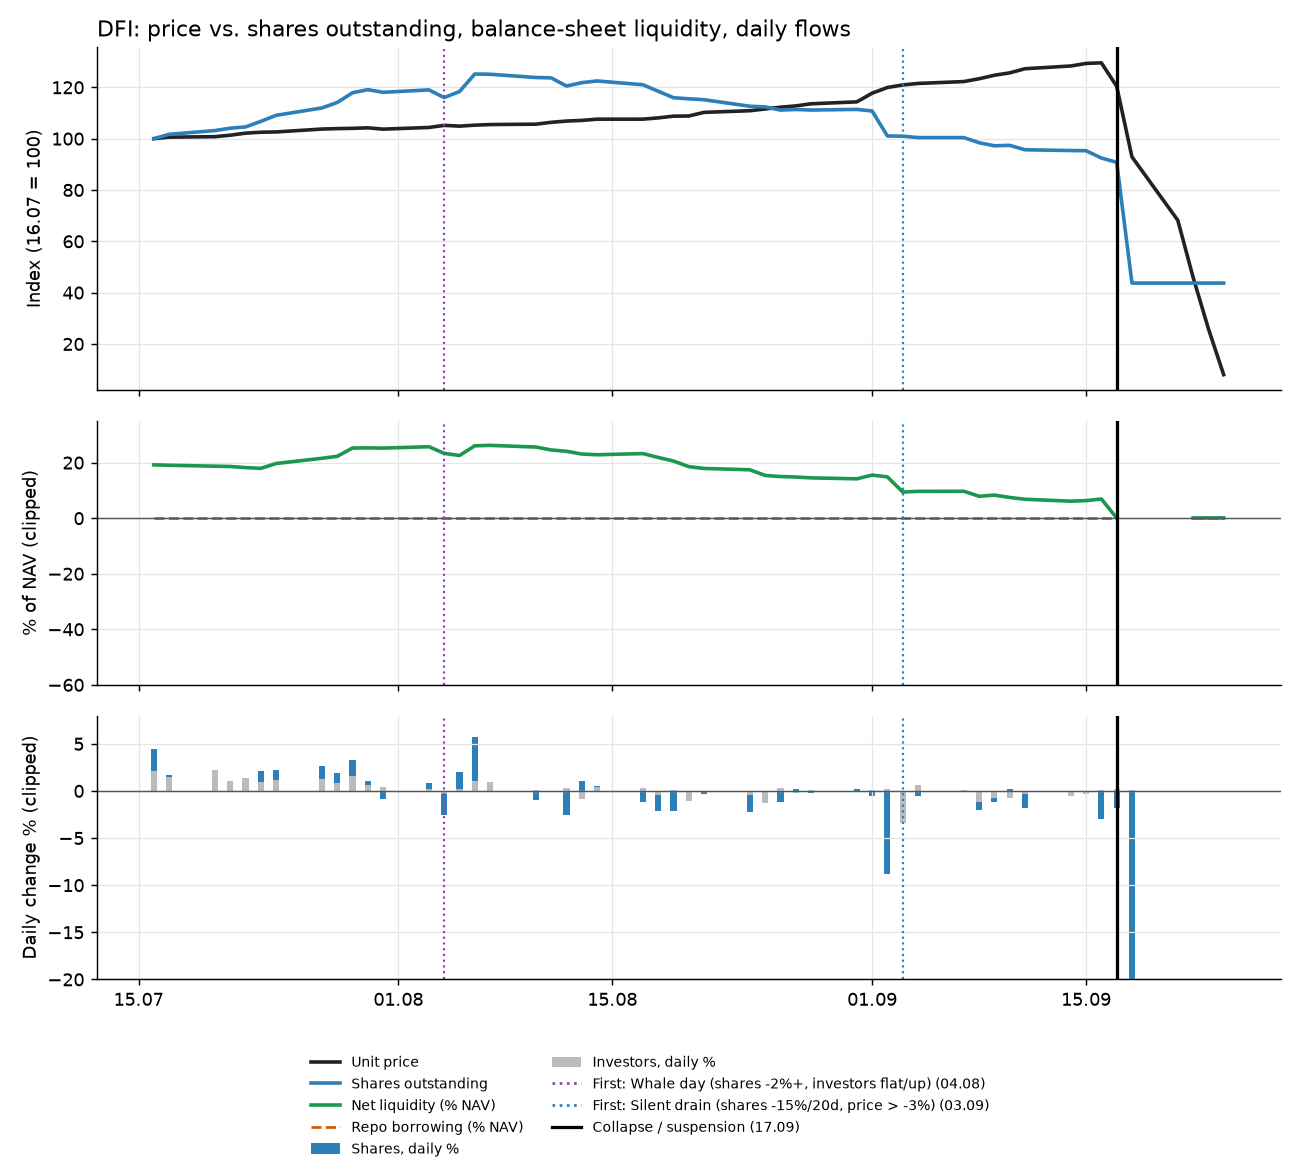
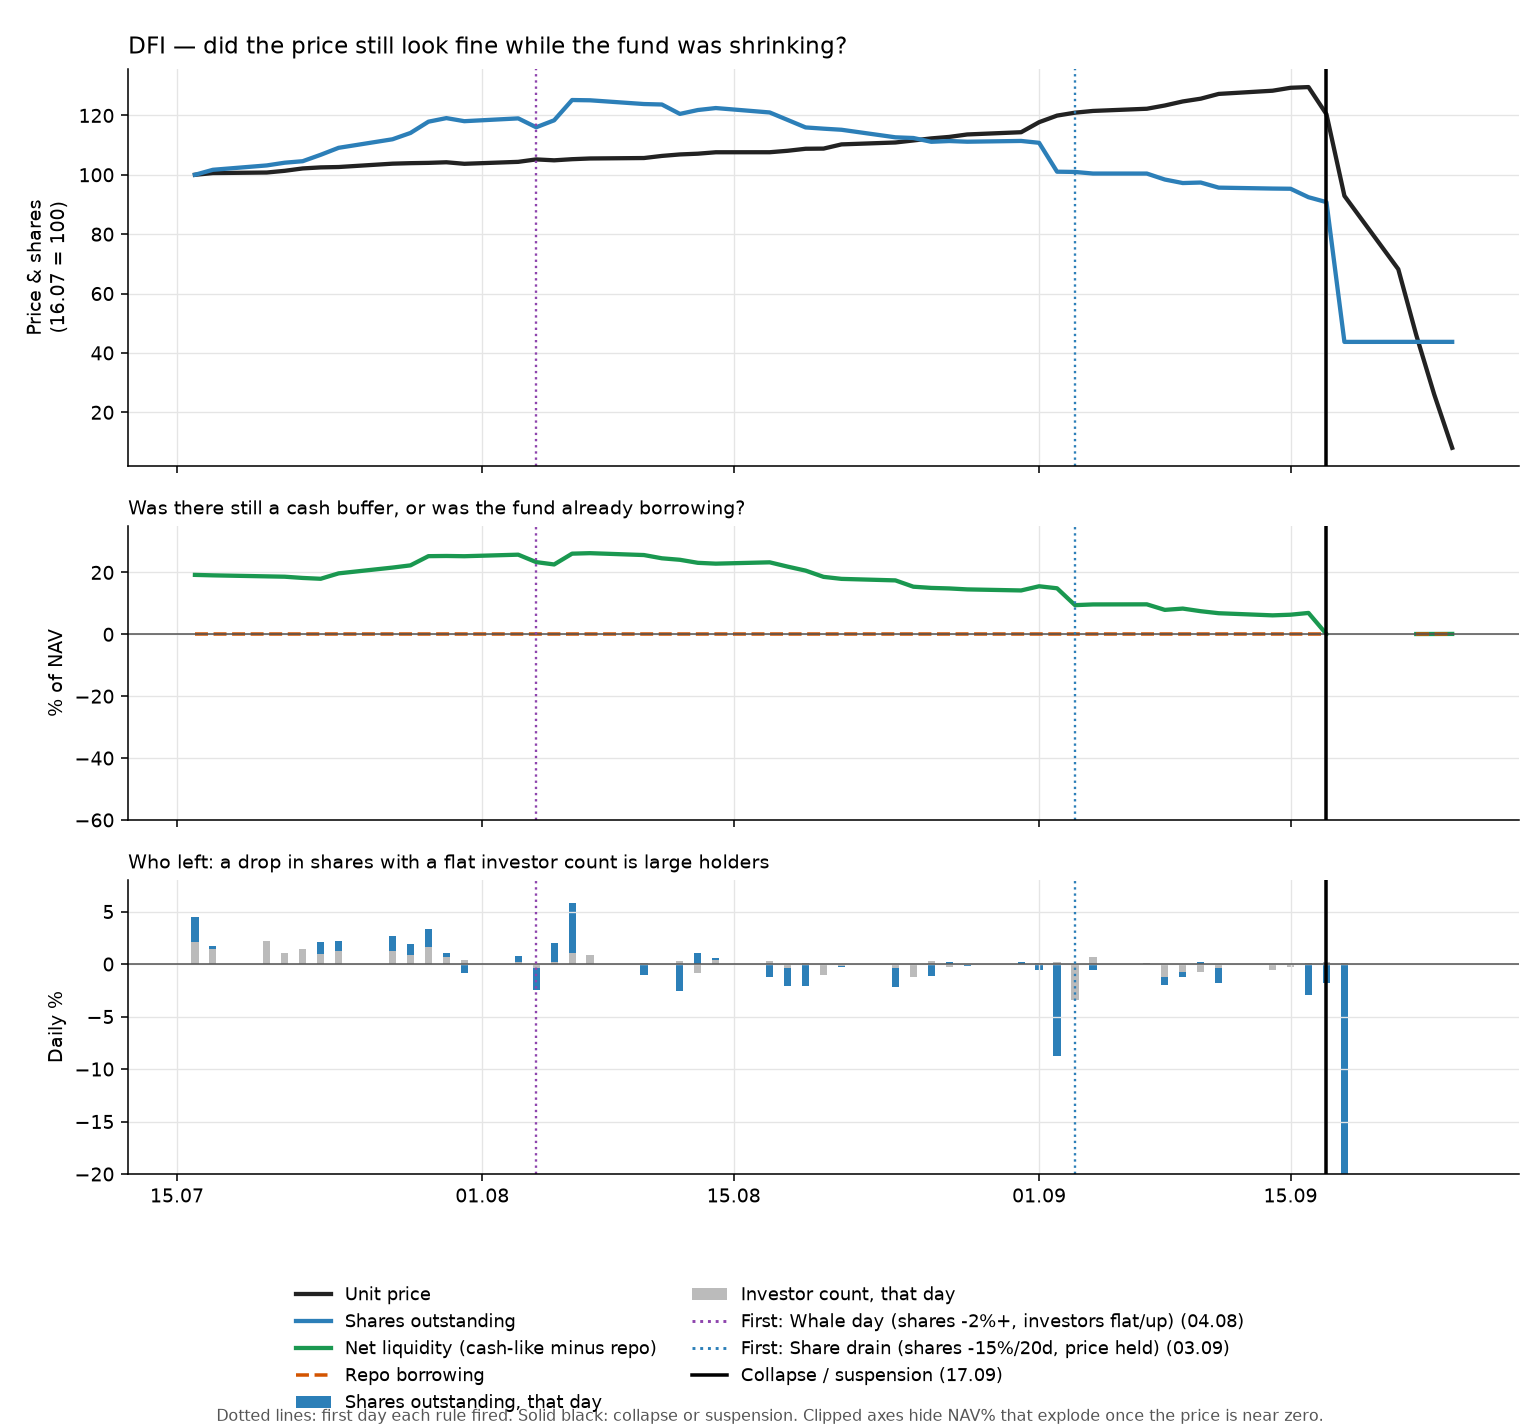
docs: map the repo and freeze KAP weights at 16.09

diff --git a/fon_terminal/kap_pdf_downloader/kap_delta_engine.py b/fon_terminal/kap_pdf_downloader/kap_delta_engine.py
@@ -1499,12 +1499,21 @@ def build_tefas_power_matrix(
 # --- Step 6: live BIST prices + target fund AUM, for a "% of portfolio" weight -----
 
 
-def fetch_bist_prices(tickers: List[str]) -> Dict[str, Optional[float]]:
-    """Fetches the latest available closing price (TL) for a batch of
-    BIST-listed tickers via `yfinance`, for the portfolio evolution
-    table's "Güncel Ağırlık (%)" column: `Hisse Pozisyon Büyüklüğü =
-    Güncel Tahmini Lot * Güncel Fiyat`, then that position size as a
-    percentage of the target fund's total AUM (see `get_latest_aum_for_fund`).
+def fetch_bist_prices(
+    tickers: List[str],
+    as_of: Optional[date] = None,
+) -> Dict[str, Optional[float]]:
+    """Fetches closing prices (TL) for a batch of BIST-listed tickers via
+    `yfinance`, for the portfolio evolution table's "Güncel Ağırlık (%)"
+    column: `Hisse Pozisyon Büyüklüğü = Güncel Tahmini Lot * Güncel Fiyat`,
+    then that position size as a percentage of the target fund's total AUM
+    (see `get_latest_aum_for_fund`).
+
+    If `as_of` is set, the close is the last session on or before that
+    date — not whatever Yahoo is printing today. After 16.09.2026 these
+    funds stopped publishing a real NAV; live TEFAS/BIST prints are not
+    the last operating book. The TLY `__main__` pipeline passes that
+    cutoff. `as_of=None` keeps the old "latest 5d bar" behaviour.
 
     Yahoo Finance requires a ".IS" suffix for Istanbul-listed symbols
     (e.g. "PEKGY" -> "PEKGY.IS") -- added here, transparently, so callers
@@ -1543,16 +1552,26 @@ def fetch_bist_prices(tickers: List[str]) -> Dict[str, Optional[float]]:
     symbol_map = {f"{ticker}.IS": ticker for ticker in tickers}
     symbols = list(symbol_map.keys())
 
-    print(f"[SISTEM] {len(symbols)} BIST hissesi icin guncel fiyat cekiliyor (yfinance, tek toplu istek)...")
+    window = (
+        f"as_of={as_of.isoformat()} (son seans o gun veya once)"
+        if as_of is not None
+        else "period=5d (en son bar)"
+    )
+    print(f"[SISTEM] {len(symbols)} BIST hissesi icin fiyat cekiliyor (yfinance, tek toplu istek, {window})...")
     try:
-        data = yf.download(
-            tickers=symbols,
-            period="5d",
-            group_by="ticker",
-            threads=True,
-            progress=False,
-            auto_adjust=False,
-        )
+        download_kwargs: Dict[str, object] = {
+            "tickers": symbols,
+            "group_by": "ticker",
+            "threads": True,
+            "progress": False,
+            "auto_adjust": False,
+        }
+        if as_of is not None:
+            download_kwargs["start"] = (as_of - timedelta(days=12)).isoformat()
+            download_kwargs["end"] = (as_of + timedelta(days=1)).isoformat()
+        else:
+            download_kwargs["period"] = "5d"
+        data = yf.download(**download_kwargs)
     except Exception as exc:  # noqa: BLE001 - a total yfinance/network failure must never crash the caller
         print(f"[UYARI] BIST fiyatlari cekilirken beklenmeyen hata (yfinance): {exc}")
         return prices
@@ -1574,7 +1593,7 @@ def fetch_bist_prices(tickers: List[str]) -> Dict[str, Optional[float]]:
             close_series = close_series.dropna()
             if close_series.empty:
                 continue
-            prices[ticker] = float(close_series.iloc[-1])
+            prices[ticker] = _close_on_or_before(close_series, as_of)
         except (KeyError, IndexError, TypeError, ValueError):
             continue
 
@@ -1589,13 +1608,40 @@ def fetch_bist_prices(tickers: List[str]) -> Dict[str, Optional[float]]:
     return prices
 
 
-def get_latest_aum_for_fund(fon_kodu: str) -> Optional[Tuple[str, float]]:
+def _close_on_or_before(close_series, as_of: Optional[date]) -> Optional[float]:
+    """Last non-null close in `close_series`, or the last one whose session
+    date is on or before `as_of` when that cutoff is set."""
+    if as_of is None:
+        return float(close_series.iloc[-1])
+    chosen: Optional[float] = None
+    for idx, value in close_series.items():
+        try:
+            idx_dt = idx.to_pydatetime() if hasattr(idx, "to_pydatetime") else idx
+            if getattr(idx_dt, "tzinfo", None) is not None:
+                idx_dt = idx_dt.replace(tzinfo=None)
+            idx_day = idx_dt.date() if hasattr(idx_dt, "date") else idx_dt
+        except (AttributeError, TypeError, ValueError):
+            continue
+        if idx_day <= as_of:
+            chosen = float(value)
+    return chosen
+
+
+def get_latest_aum_for_fund(
+    fon_kodu: str,
+    as_of: Optional[date] = None,
+) -> Optional[Tuple[str, float]]:
     """Returns `(iso_date, ToplamDeger)` for `fon_kodu`'s most recent
     TEFAS record in this sandbox's local cache (`tefas_cache.json`) --
     the RAW total AUM figure, deliberately NOT the "Aktif Guc"
     (equity+liquidity) figure `build_tefas_power_matrix` computes, since
     the evolution table's "% of portfolio" weight needs the fund's TRUE
     total size as its denominator, not a purchasing-power subset of it.
+
+    Rows with `Fiyat <= 0` are skipped (a suspended fund prints 0, which
+    is not an AUM). If `as_of` is set, later cache rows are ignored too —
+    same cutoff as `fetch_bist_prices`, so weights stay on the last
+    operating session.
 
     Must be called AFTER `build_tefas_power_matrix` has run at least once
     for this fund in the current process -- that call is what populates
@@ -1627,11 +1673,21 @@ def get_latest_aum_for_fund(fon_kodu: str) -> Optional[Tuple[str, float]]:
 
     latest_iso: Optional[str] = None
     latest_aum: Optional[float] = None
+    as_of_iso = as_of.isoformat() if as_of is not None else None
     for record in records:
         iso_date = _tarih_ddmmyyyy_to_iso(record.get("Tarih"))
         raw_aum = record.get("ToplamDeger")
         if iso_date is None or raw_aum is None:
             continue
+        if as_of_iso is not None and iso_date > as_of_iso:
+            continue
+        raw_price = record.get("Fiyat")
+        if raw_price is not None:
+            try:
+                if float(raw_price) <= 0:
+                    continue
+            except (TypeError, ValueError):
+                continue
         if latest_iso is not None and iso_date <= latest_iso:
             continue
         try:
@@ -1862,22 +1918,28 @@ if __name__ == "__main__":
         print(f"{code:8s}  Onceki: {before:>15,.2f}   Delta: {delta:>+15,.2f}   Sonraki: {after:>15,.2f}")
 
     print("\n=== Adım 6: Güncel BIST Fiyatları ve Portföy Ağırlığı (%) ===")
+    # Last session these funds still published a real NAV. After 16.09
+    # TEFAS prints 0 and many names are halted; live Yahoo closes are not
+    # the last operating book.
+    LAST_OPERATING_SESSION = date(2026, 9, 16)
     yf_symbols = [f"{code}.IS" for code in all_codes]
     _log_step(
         execution_logs,
-        f"yfinance toplu fiyat isteği: tickers={yf_symbols}, period='5d', "
+        f"yfinance toplu fiyat isteği: tickers={yf_symbols}, "
+        f"as_of={LAST_OPERATING_SESSION.isoformat()} (son seans, period=5d değil), "
         f"group_by='ticker', ham_kod_sayısı={len(all_codes)}.",
     )
-    current_prices = fetch_bist_prices(all_codes)
+    current_prices = fetch_bist_prices(all_codes, as_of=LAST_OPERATING_SESSION)
     found_price_count = sum(1 for price in current_prices.values() if price is not None)
     missing_price_codes = [code for code, price in current_prices.items() if price is None]
     _log_step(
         execution_logs,
         f"yfinance yanıtı: fiyat_bulunan={found_price_count}/{len(all_codes)}, "
-        f"fiyat_yok={missing_price_codes or '[]'}.",
+        f"fiyat_yok={missing_price_codes or '[]'}, "
+        f"kesim={LAST_OPERATING_SESSION.isoformat()}.",
     )
 
-    aum_info = get_latest_aum_for_fund(FON_KODU)
+    aum_info = get_latest_aum_for_fund(FON_KODU, as_of=LAST_OPERATING_SESSION)
     if aum_info is None:
         print(f"[UYARI] {FON_KODU} icin tefas_cache.json'da guncel ToplamDeger (AUM) bulunamadi; agirlik (%) hesabi atlanacak.")
         _log_step(

diff --git a/fon_terminal/case_study/build_case_study.py b/fon_terminal/case_study/build_case_study.py
@@ -58,7 +58,7 @@ COLLAPSE_DAILY_DROP_PCT = -5.0
 SIGNALS = {
     "whale": "Whale day (shares -2%+, investors flat/up)",
     "borrow": "Repo borrowing <= -5% of NAV",
-    "drain": "Silent drain (shares -15%/20d, price > -3%)",
+    "drain": "Share drain (shares -15%/20d, price held)",
     "net_liquidity": "Net liquidity < 0",
 }
 SIGNAL_COLORS = {"whale": "#8e44ad", "borrow": "#d35400", "drain": "#2c7fb8", "net_liquidity": "#c0392b"}
@@ -166,14 +166,17 @@ def style_axis(ax):
 def fund_panel(fund, rows, summary, output_path, trades=None):
     rows = [r for r in rows if r["date"] >= CHART_START]
     dates = [r["date"] for r in rows]
-    fig, axes = plt.subplots(3, 1, figsize=(10, 9), sharex=True,
-                             gridspec_kw={"height_ratios": [1.3, 1, 1]})
+    fig, axes = plt.subplots(3, 1, figsize=(11, 10.2), sharex=True,
+                             gridspec_kw={"height_ratios": [1.35, 1, 1]})
 
     ax = axes[0]
-    ax.plot(dates, index_series(rows, "price"), color="#222222", linewidth=2, label="Unit price")
-    ax.plot(dates, index_series(rows, "shares"), color="#2c7fb8", linewidth=2, label="Shares outstanding")
-    ax.set_ylabel(f"Index ({INDEX_BASE_DATE:%d.%m} = 100)")
-    ax.set_title(f"{fund}: price vs. shares outstanding, balance-sheet liquidity, daily flows", loc="left")
+    ax.plot(dates, index_series(rows, "price"), color="#222222", linewidth=2.2, label="Unit price")
+    ax.plot(dates, index_series(rows, "shares"), color="#2c7fb8", linewidth=2.2, label="Shares outstanding")
+    ax.set_ylabel(f"Price & shares\n({INDEX_BASE_DATE:%d.%m} = 100)")
+    ax.set_title(
+        f"{fund} — did the price still look fine while the fund was shrinking?",
+        loc="left", fontsize=12, pad=8,
+    )
 
     if trades:
         price_index = dict(zip(dates, index_series(rows, "price")))
@@ -196,21 +199,23 @@ def fund_panel(fund, rows, summary, output_path, trades=None):
 
     liquidity = [sane(r["net_liquidity"]) for r in rows]
     repo = [sane(r["repo"]) for r in rows]
-    ax.plot(dates, liquidity, color="#1a9850", linewidth=2, label="Net liquidity (% NAV)")
-    ax.plot(dates, repo, color="#d35400", linewidth=1.5, linestyle="--", label="Repo borrowing (% NAV)")
+    ax.plot(dates, liquidity, color="#1a9850", linewidth=2.2, label="Net liquidity (cash-like minus repo)")
+    ax.plot(dates, repo, color="#d35400", linewidth=1.8, linestyle="--", label="Repo borrowing")
     ax.axhline(0, color="#555555", linewidth=0.8)
     ax.set_ylim(-60, 35)
-    ax.set_ylabel("% of NAV (clipped)")
+    ax.set_ylabel("% of NAV")
+    ax.set_title("Was there still a cash buffer, or was the fund already borrowing?", loc="left", fontsize=10)
 
     ax = axes[2]
     width = 0.4
     ax.bar([d - timedelta(hours=5) for d in dates], [max(r["share_chg"], -20) for r in rows], width=width,
-           color="#2c7fb8", label="Shares, daily %")
+           color="#2c7fb8", label="Shares outstanding, that day")
     ax.bar([d + timedelta(hours=5) for d in dates], [max(r["investor_chg"], -20) for r in rows], width=width,
-           color="#bbbbbb", label="Investors, daily %")
+           color="#bbbbbb", label="Investor count, that day")
     ax.axhline(0, color="#555555", linewidth=0.8)
     ax.set_ylim(-20, 8)
-    ax.set_ylabel("Daily change % (clipped)")
+    ax.set_ylabel("Daily %")
+    ax.set_title("Who left: a drop in shares with a flat investor count is large holders", loc="left", fontsize=10)
 
     for ax in axes:
         style_axis(ax)
@@ -232,9 +237,15 @@ def fund_panel(fund, rows, summary, output_path, trades=None):
     if summary["collapse"]:
         handles.append(plt.Line2D([], [], color="black", linewidth=1.8))
         labels.append(f"Collapse / suspension ({summary['collapse']:%d.%m})")
-    fig.legend(handles, labels, loc="lower center", ncol=2, fontsize=8, frameon=False)
-    fig.tight_layout(rect=(0, 0.12, 1, 1))
-    fig.savefig(output_path, dpi=130)
+    fig.legend(handles, labels, loc="lower center", ncol=2, fontsize=9, frameon=False)
+    fig.text(
+        0.5, 0.005,
+        "Dotted lines: first day each rule fired. Solid black: collapse or suspension. "
+        "Clipped axes hide NAV% that explode once the price is near zero.",
+        ha="center", fontsize=8, color="#555555",
+    )
+    fig.tight_layout(rect=(0, 0.14, 1, 0.99))
+    fig.savefig(output_path, dpi=140)
     plt.close(fig)
 
 
@@ -307,14 +318,15 @@ def concentration_chart(snapshots, output_path):
     ax.set_xticks([x + width * (len(labels) - 1) / 2 for x in range(len(order))])
     ax.set_xticklabels(order)
     ax.set_ylabel("% of fund NAV")
-    ax.set_title("TLY: largest single-stock positions (KAP portfolio reports)", loc="left")
+    ax.set_title("TLY — how much sat in the largest names (from KAP reports, not TEFAS)", loc="left", fontsize=12)
+    ax.set_xlabel("Ticker")
     style = ax.spines
     style["top"].set_visible(False)
     style["right"].set_visible(False)
     ax.grid(True, axis="y", color="#e5e5e5")
     ax.legend(frameon=False)
     fig.tight_layout()
-    fig.savefig(output_path, dpi=130)
+    fig.savefig(output_path, dpi=140)
     plt.close(fig)
 
 

diff --git a/fon_terminal/case_study/CASE_STUDY_2026_09.md b/fon_terminal/case_study/CASE_STUDY_2026_09.md
@@ -45,6 +45,20 @@ said nothing until it was too late.
 | **Allocation charts** (repo, reverse repo, money market, deposits) | *Is there a buffer?* How much of the fund can be turned into cash immediately, and is the fund already borrowing? |
 | **KAP pipeline** (`kap_pdf_downloader/`) | *What does the fund actually hold?* Stock-level holdings from the fund's own KAP portfolio reports; single-stock concentration; which funds share a manager (`discover_related_funds`). |
 
+The terminal on 16.09, last published TEFAS row before the halt — price and AUM still look fine; shares and reverse-repo are already falling:
+
+![TLY terminal 16.09.2026](img/tly_terminal_2026_09_16.png)
+
+*Same dashboard as the terminal README. 17.09 (zero price / suspension, alerts) is in section 7.*
+
+The KAP HTML report, frozen at the last operating session. After 16.09, TEFAS prints 0 and BIST names are not a usable "current weight". These shots are from an earlier run (AUM header 26.08); they show the product, not a live post-liquidation refresh.
+
+![KAP execution trace](img/kap_report_overview.png)
+
+![KAP holdings](img/kap_report_holdings.png)
+
+![KAP portfolio evolution](img/kap_report_evolution.png)
+
 The two halves were developed separately on purpose: the terminal was the
 working system, the KAP pipeline was under active development, and the plan
 was to merge them once the KAP side was stable, then add an alerting layer on
@@ -71,7 +85,7 @@ every tracked fund:
 | Signal | Rule | What it means |
 |---|---|---|
 | Whale day | Shares outstanding -2% or more in a day while investor count is flat or rising (>= -0.5%) | Large holders leaving while small ones stay or arrive |
-| Silent drain | Shares -15% or more over 20 business days while price is down less than 3% | Money leaving a fund whose price still looks healthy |
+| Share drain | Shares -15% or more over 20 business days while price is down less than 3% | Money leaving a fund whose price still looks healthy |
 | Repo borrowing | Repo at or below -5% of NAV | The fund is borrowing, typically to meet redemptions |
 | Net liquidity < 0 | Repo + reverse repo + money market + deposits below zero | Cash-like assets no longer cover what the fund owes short term |
 
@@ -84,6 +98,8 @@ they **were** written after the event; see the limitations in section 6.
 ### 4.1 PHE and PBR: the fund was emptying while the price stood still
 
 ![PHE panel](img/phe_panel.png)
+
+*Three stacked views, 16.07–collapse. Top: unit price vs shares outstanding (both indexed to 16.07 = 100). Middle: cash-like assets minus repo borrowing. Bottom: that day's change in shares (blue) vs investor count (grey). Dotted lines are the first fire of each rule; solid black is the break.*
 
 | 16.07 to 01.09 (last day before the price broke) | PHE | PBR |
 |---|---|---|
@@ -103,9 +119,13 @@ they **were** written after the event; see the limitations in section 6.
 
 ![PBR panel](img/pbr_panel.png)
 
+*Same layout as PHE. Shares and liquidity moved for weeks; the unit price was the last series to break.*
+
 ### 4.2 TLY: a rising price over a thinning cushion
 
 ![TLY panel](img/tly_panel.png)
+
+*Same three views. Price rises while shares fall and net liquidity crosses below zero on 08.09. The black line is 16.09 / suspension.*
 
 | 16.07 to 16.09 | TLY |
 |---|---|
@@ -129,6 +149,8 @@ they **were** written after the event; see the limitations in section 6.
 **Concentration (from the KAP reports):**
 
 ![TLY concentration](img/tly_concentration.png)
+
+*Each group is one KAP snapshot. Bars are that stock's weight in TLY's NAV. The last group is an estimate: 04.09 lots marked at 15.09 closes.*
 
 | Snapshot | Top holding | Top 3 | Top 5 |
 |---|---|---|---|
@@ -173,7 +195,7 @@ disclosures don't provide.
 First day each rule fired (visible date) and business days before the
 collapse (first daily price drop of 5% or more, or suspension):
 
-| Fund | Whale day | Silent drain | Repo borrowing | Net liquidity < 0 | Collapse |
+| Fund | Whale day | Share drain | Repo borrowing | Net liquidity < 0 | Collapse |
 |---|---|---|---|---|---|
 | PHE | 23.07 (29) | 03.08 (22) | 05.08 (20) | 05.08 (20) | 02.09 |
 | PBR | 29.07 (25) | 03.08 (22) | 05.08 (20) | 05.08 (20) | 02.09 |
@@ -248,7 +270,8 @@ The alerting layer this case study argues for is small:
 
 Items 1, 2 and 4 are now on the terminal (written after this event, same
 thresholds as section 3). TLY through 17.09.2026, the first published zero
-price / suspension row, with fire dates and crossing values:
+price / suspension row, with fire dates and crossing values. 16.09 (last
+published NAV, no alerts overlay) is in section 2.
 
 ![TLY terminal 17.09.2026](img/tly_terminal_2026_09_17.png)
 

diff --git a/fon_terminal/kap_pdf_downloader/README.md b/fon_terminal/kap_pdf_downloader/README.md
@@ -11,6 +11,13 @@ What those reports showed before September 2026 is in the
 
 ![Execution trace](img/report_overview.png)
 
+*Frozen product shot — last operating session is 16.09.2026. After that
+TEFAS prints 0 and BIST names are halted or limit-down; do not refresh
+these "current weight" columns from live Yahoo/TEFAS. The pipeline now
+caps BIST closes and TEFAS AUM at that date. The screenshots themselves
+are from an earlier HTML run (AUM header 26.08); they show the report
+layout, not a live post-liquidation book.*
+
 The HTML report opens with an execution trace: which KAP endpoints were
 called, which filings were kept or dropped, and how multi-fund trades
 were classified. Holdings parsed from a PDF:
@@ -18,7 +25,7 @@ were classified. Holdings parsed from a PDF:
 ![Holdings table](img/report_holdings.png)
 
 And the estimated holdings since that baseline — weights, lot changes, BIST
-prices:
+prices as of 16.09.2026:
 
 ![Portfolio evolution](img/report_evolution.png)
 
@@ -437,8 +444,8 @@ per ticker:
 | İşlem Tarihçesi | Click-to-expand `<details>` list of every INDIVIDUAL dated entry behind the two delta columns above (see below). |
 | Güncel Tahmini Lot | Başlangıç + Kesinleşen + Oransal. |
 | Taban Tarihinden Beri Lot Değişimi (%) | `(Güncel - Başlangıç) / Başlangıç * 100`, matte emerald if positive, matte brick-red if negative. A ticker with Başlangıç Lot == 0 (division by zero is meaningless, not just an edge case) renders `"YENİ HİSSE"` here instead, unless it also nets out to exactly 0 (rendered as a plain `-`). **This covers only the span since the baseline PDF's measured valuation date** -- it resets when the next KAP PDF becomes the new baseline; it is not a long-term trend. |
-| Güncel Fiyat | Latest BIST close from yfinance (`TICKER.IS`), or `-` if unavailable. |
-| Güncel Ağırlık (%) | `(Güncel Tahmini Lot × Güncel Fiyat) / fon AUM * 100` when both price and AUM exist; otherwise `-`. |
+| Güncel Fiyat | BIST close from yfinance (`TICKER.IS`) on the last operating session (16.09.2026), or `-` if unavailable. Not today's print. |
+| Güncel Ağırlık (%) | `(Güncel Tahmini Lot × Güncel Fiyat) / fon AUM * 100` when both price and AUM exist; otherwise `-`. AUM is the last TEFAS row on or before that same date with a positive unit price. |
 
 When AUM/prices are available, rows are sorted by **Güncel Ağırlık (%)**
 descending (largest portfolio weight first); tickers without a computable

diff --git a/README.md b/README.md
@@ -1,0 +1,11 @@
+# r-d
+
+Working software and notes around Turkish investment funds. Almost everything lives in [`fon_terminal/`](fon_terminal/) — start there, not at this folder listing.
+
+| | |
+|---|---|
+| [**Terminal**](fon_terminal/README.md) | Daily TEFAS series: whale radar, cash buffer, alerts. Screenshot is TLY on **16.09.2026**, the last published row before the halt. |
+| [**KAP pipeline**](fon_terminal/kap_pdf_downloader/README.md) | Holdings, subsequent trades, concentration. Market weights freeze at **16.09.2026** — later TEFAS/BIST prints are not the last operating book. |
+| [**Case study**](fon_terminal/case_study/CASE_STUDY_2026_09.md) | What those series showed before the September 2026 run. |
+
+The tag [`pre-crisis-2026-09-14`](https://github.com/Raknero/r-d/releases/tag/pre-crisis-2026-09-14) is the last commit from before the event. Later commits are dated and say what was added after.
